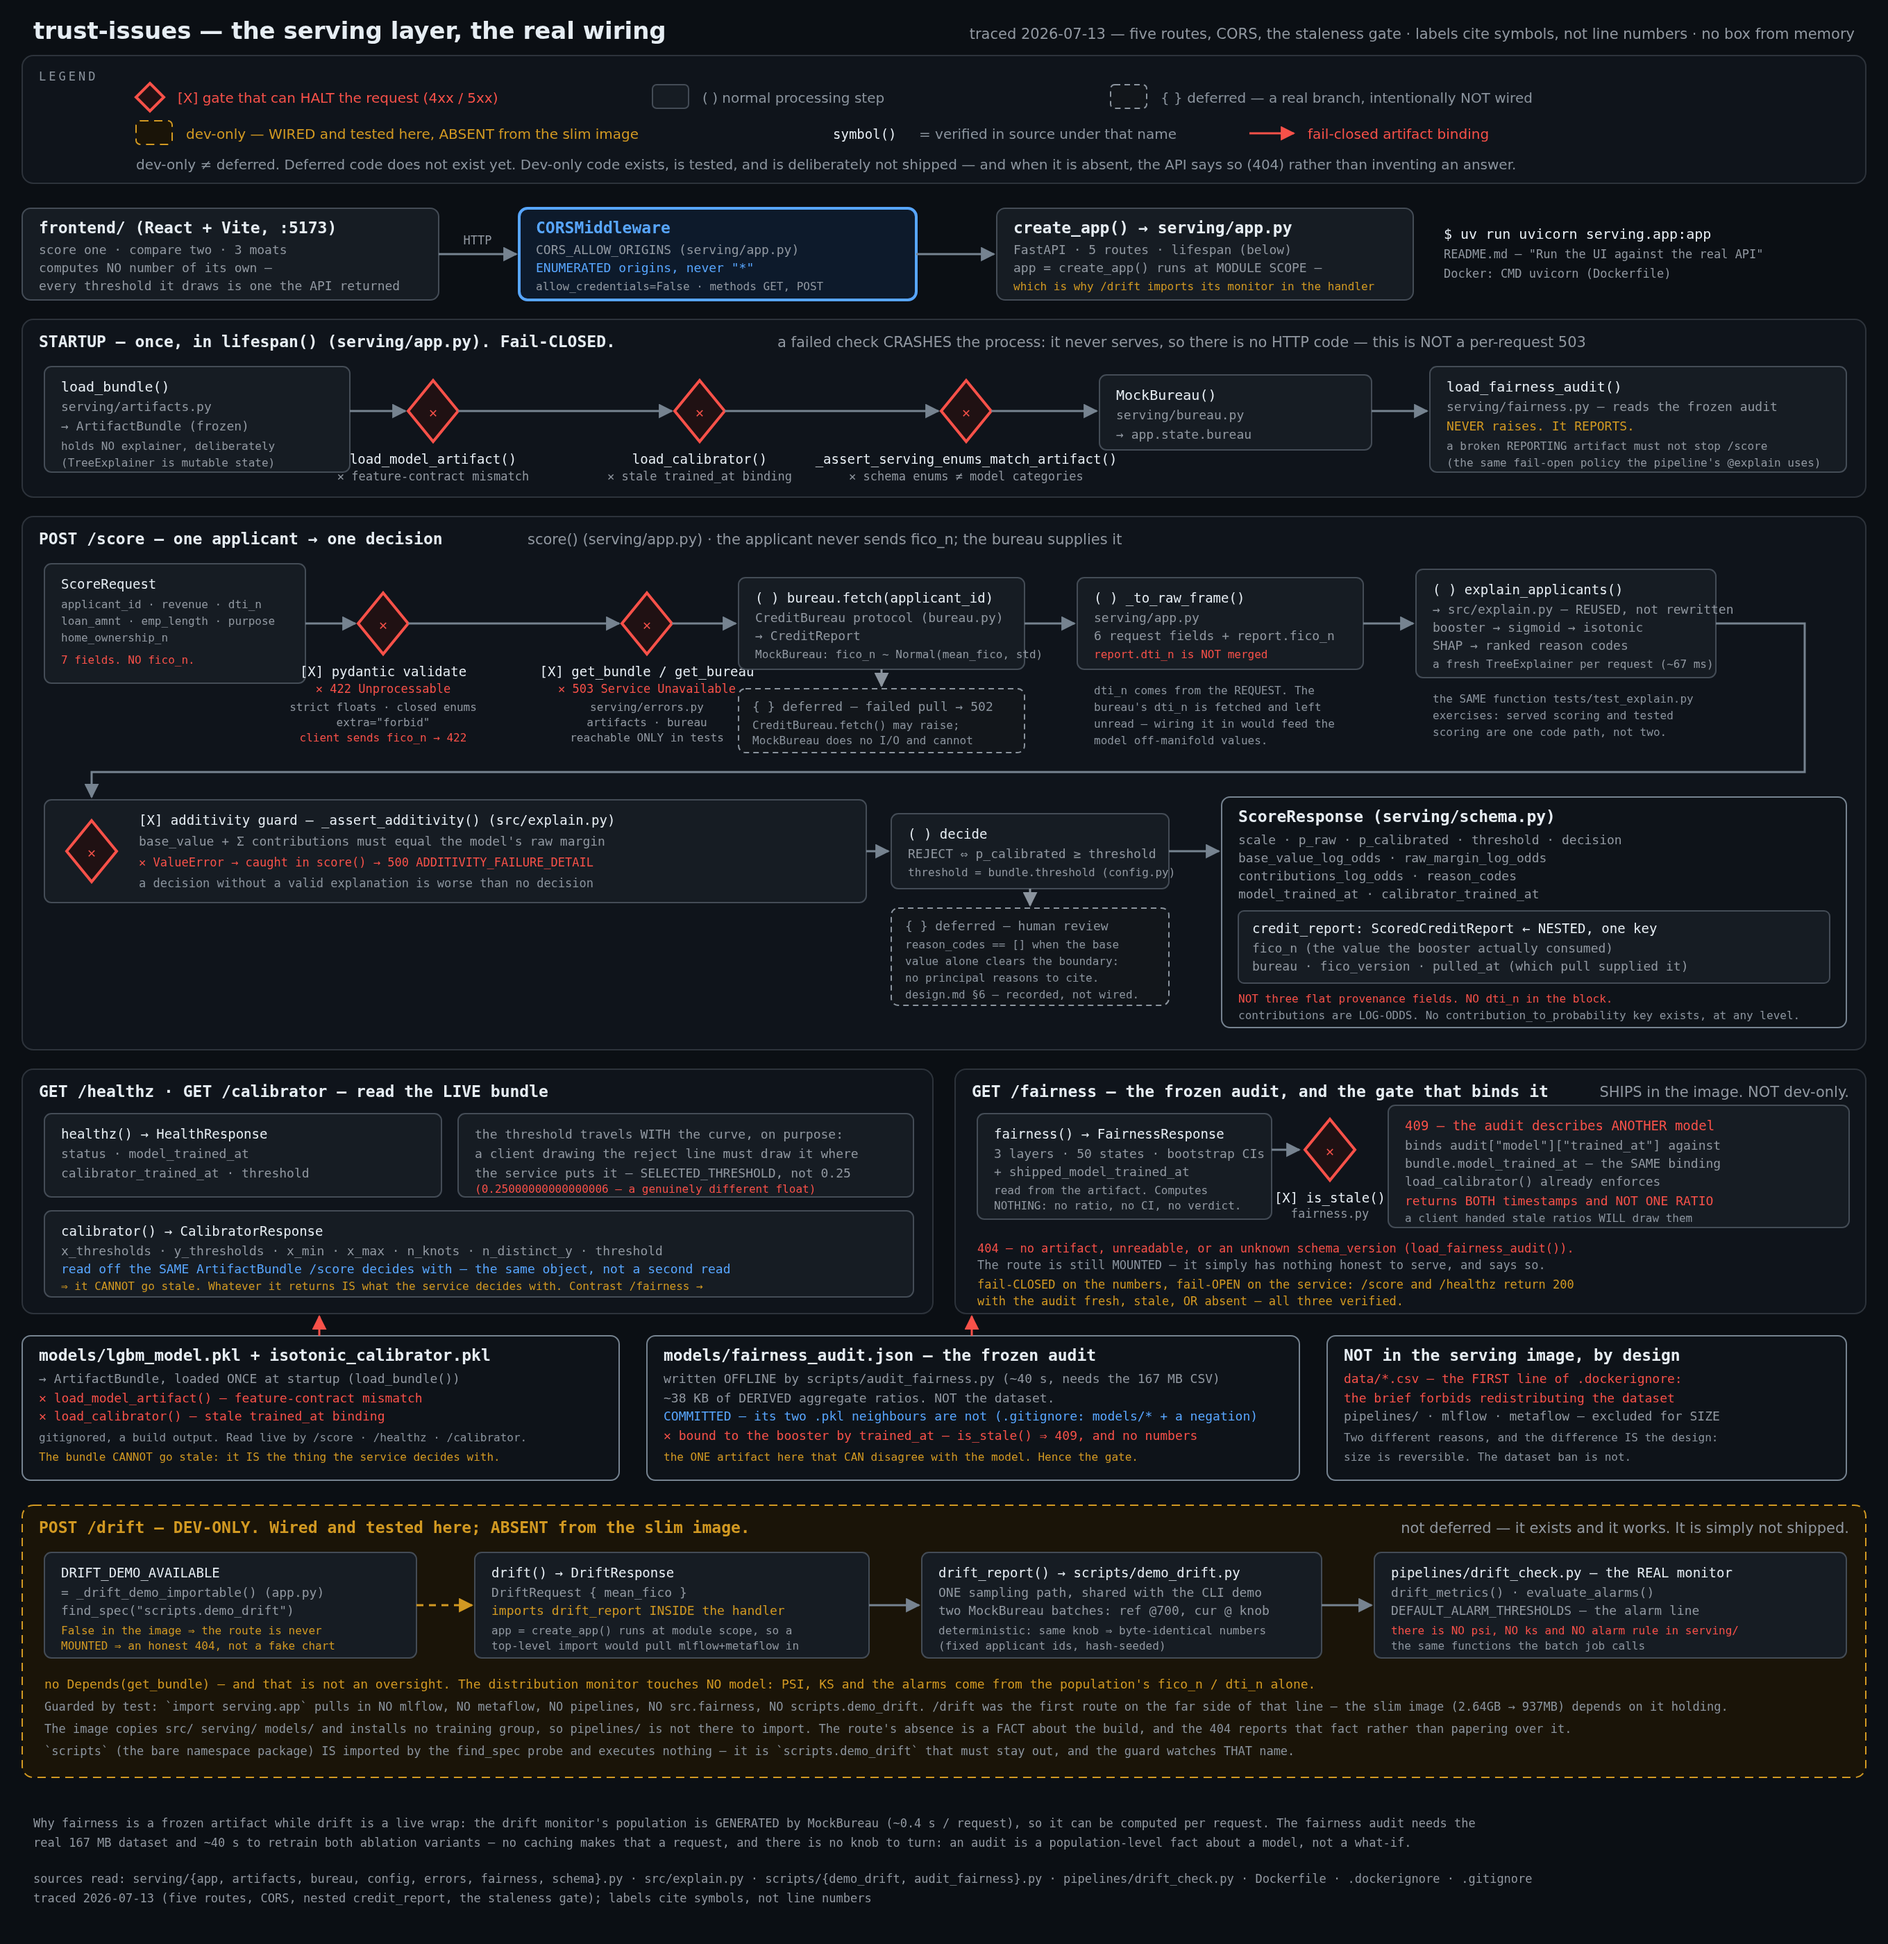
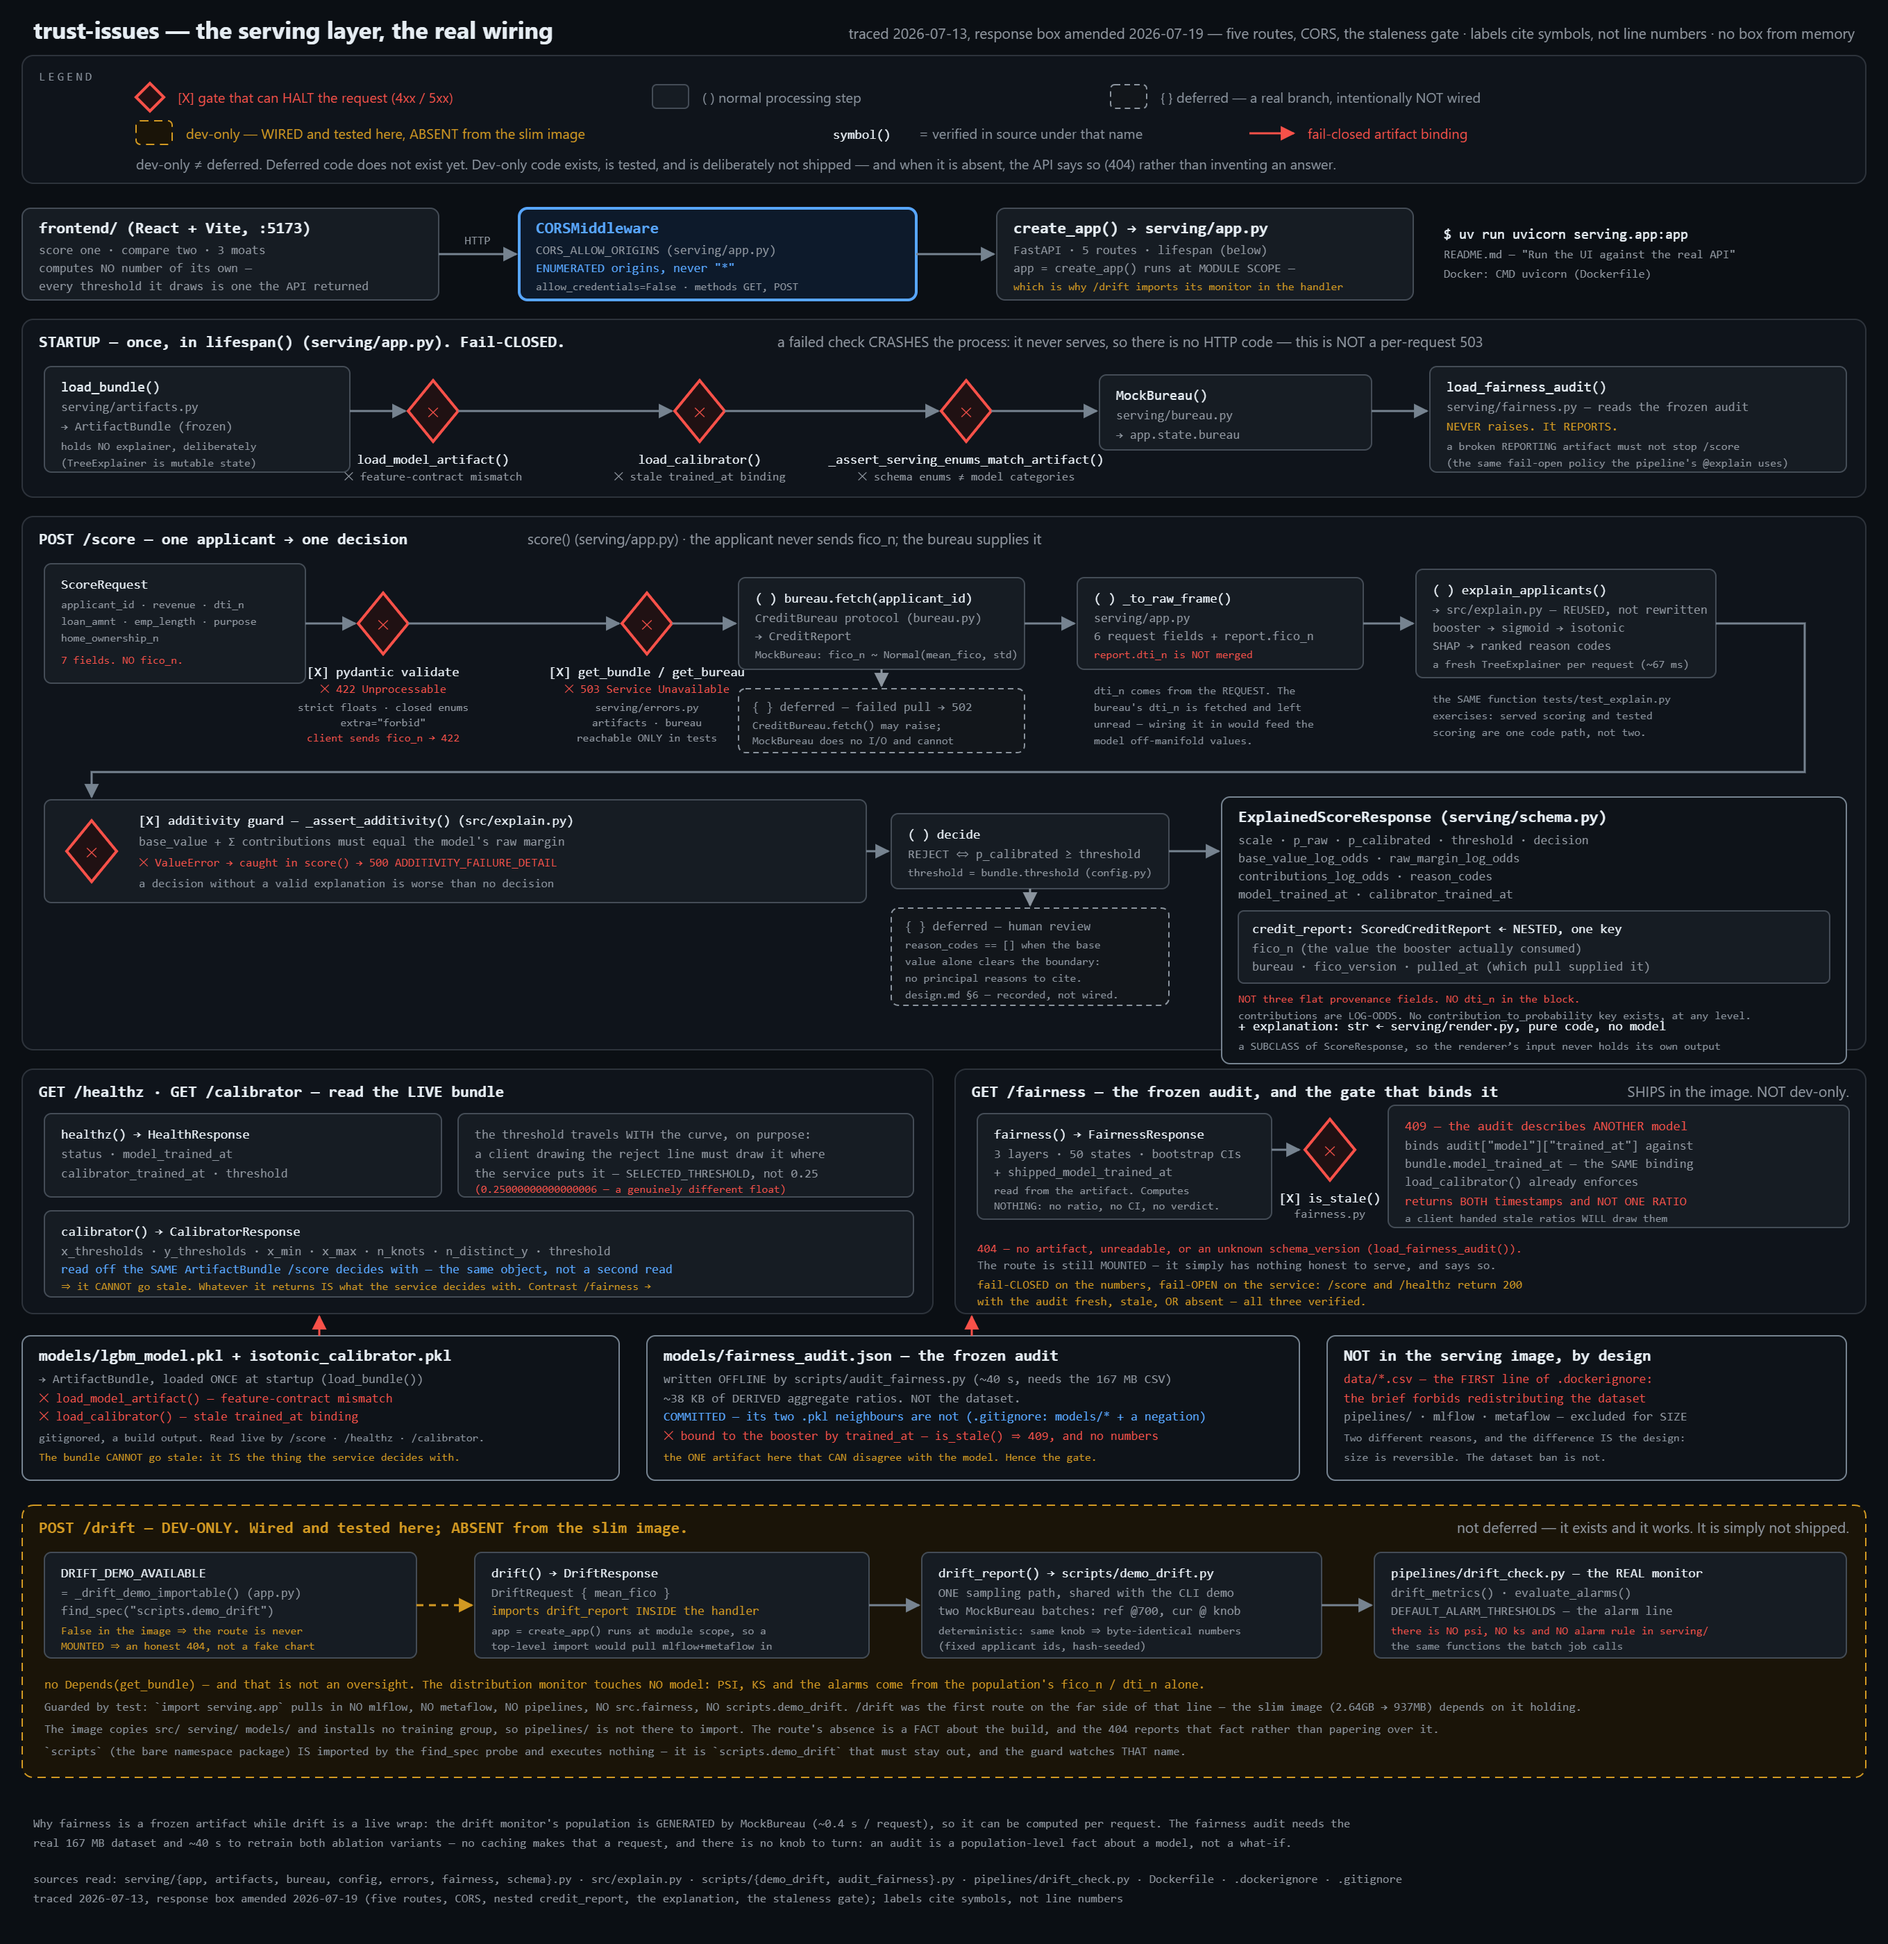
docs: the PNG caught up, so the note saying it hadn't is the stale one now
7f74177 updated docs/architecture-serving.html's response box to
ExplainedScoreResponse and could not regenerate the PNG (the page's
Export-as-PNG button needs a browser; playwright is not in this venv). It said
so in a blockquote under the image rather than leaving a reader to find it. The
export has now been done, so that blockquote is the thing describing a state
that no longer exists.

VERIFIED BEFORE REMOVING, because a note reading "stale" over a genuinely stale
image is correct and deleting it would be the lie:

  docs/architecture-serving.png  working cd4f94e6 vs HEAD 3ce23041  CHANGED
  docs/architecture.png          working f4bf603f vs HEAD f4bf603f  UNCHANGED

The right file moved and the training diagram did not. A hash change only
proves the bytes differ, so the image itself was read rather than inferred
from the mtime. It now carries, in the response box:

  ExplainedScoreResponse  (serving/schema.py)
  + explanation: str  <- serving/render.py, pure code, no model
  a SUBCLASS of ScoreResponse, so the renderer's input never holds its own output

and both captions read "traced 2026-07-13, response box amended 2026-07-19".
That is the HTML's text, so source and image now agree.

NOTHING ELSE NAMES THE OLD BOX, with one thing flagged rather than fixed.

docs/data-decisions.md mentions ScoreResponse seven times and is append-only, so
it was checked rather than edited -- and it needs no edit. Its load-bearing
[…]

diff --git a/README.md b/README.md
@@ -177,12 +177,6 @@ credit system.
 every label cites the symbol it was verified under, and the page's Export-as-PNG button regenerates
 the image above.*
 
-> **The PNG above is one commit behind the HTML.** The response box became
-> `ExplainedScoreResponse` (it now carries `explanation`, rendered by `serving/render.py`); the HTML
-> is updated and the PNG is not, because regenerating it needs the page's Export-as-PNG button in a
-> browser. Nothing else changed — still five routes, same flow. Said here rather than left for a
-> reader to discover, which is the whole point of the convention above.
-
 *Read this one differently from the diagram above: it traces HTTP requests through the five routes,
 not a pipeline run. Its legend adds bracket notation — `[X]` a gate that can halt, `( )` a normal
 step, `{ }` a **deferred** branch — and one marker the training diagram has no need for: **dev-only**,
